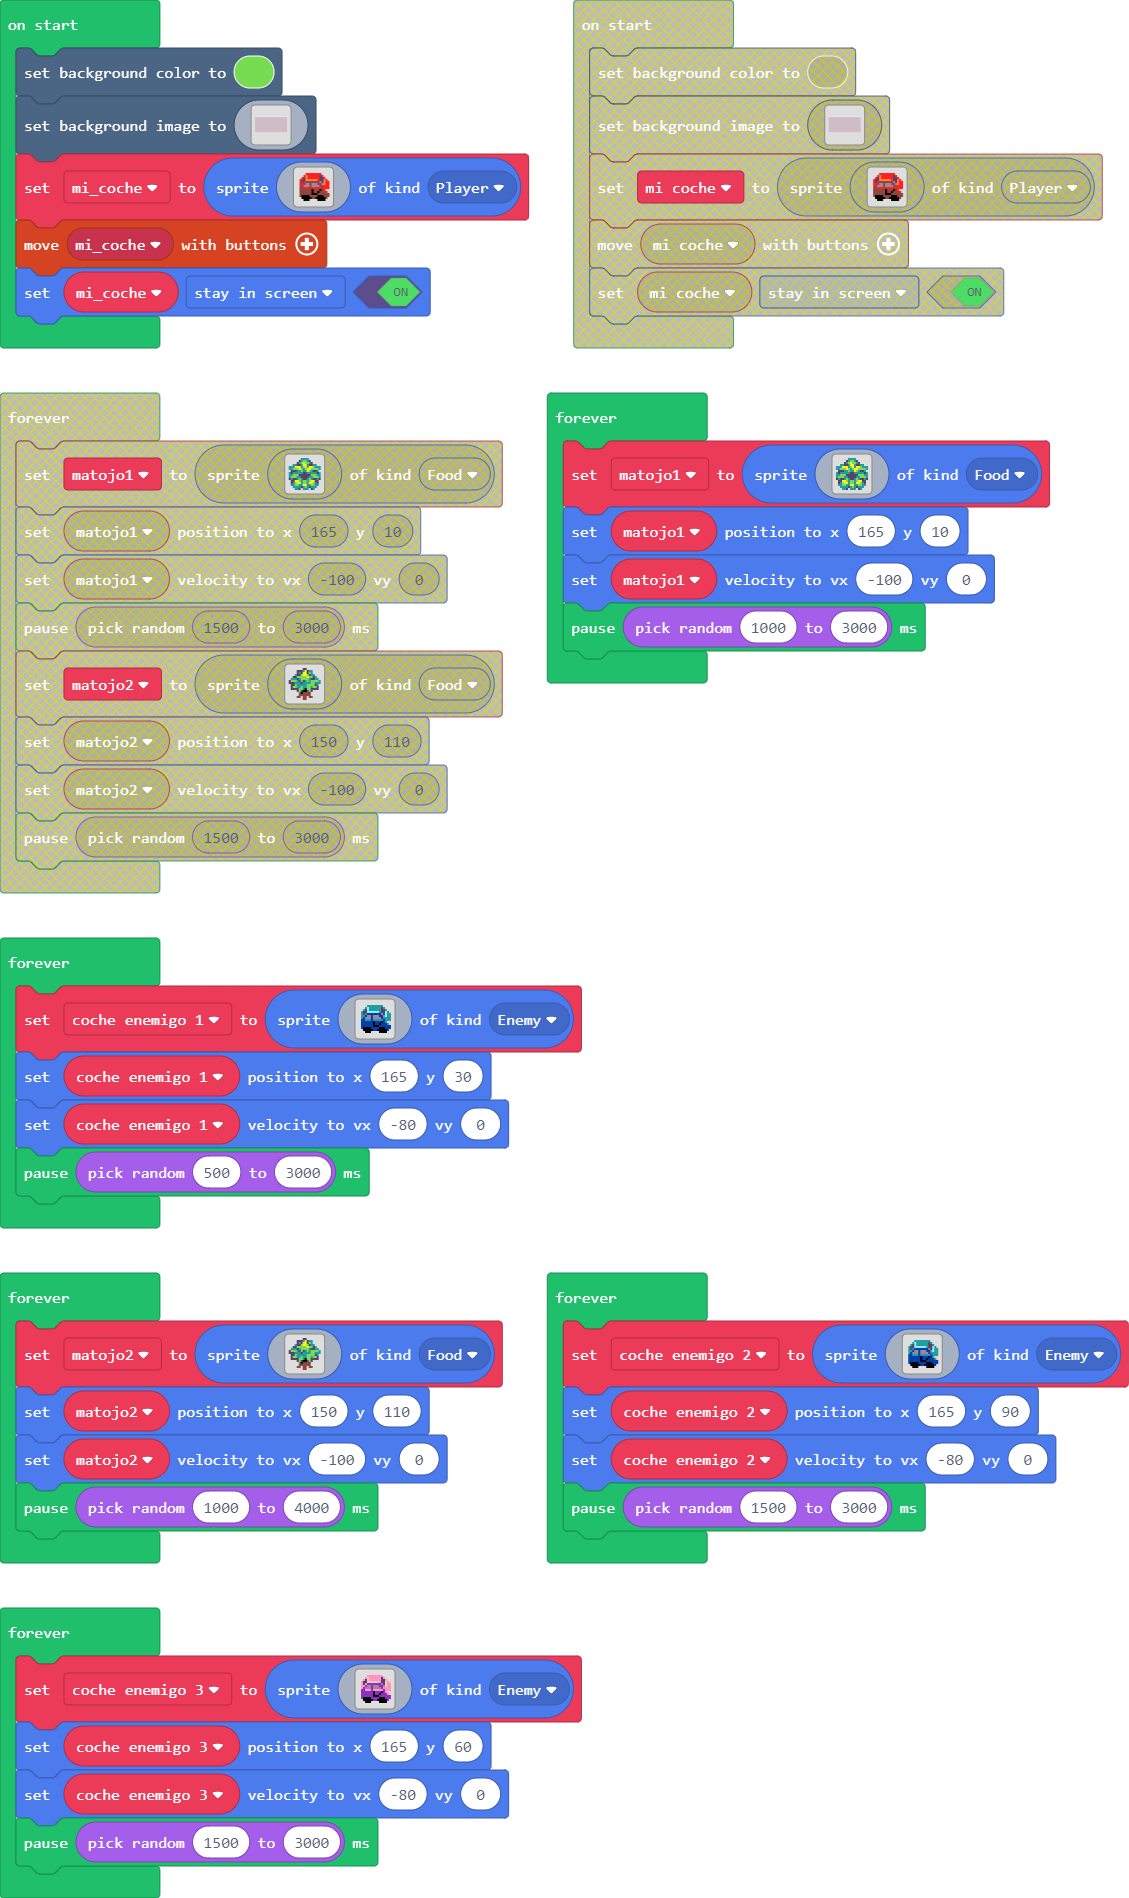
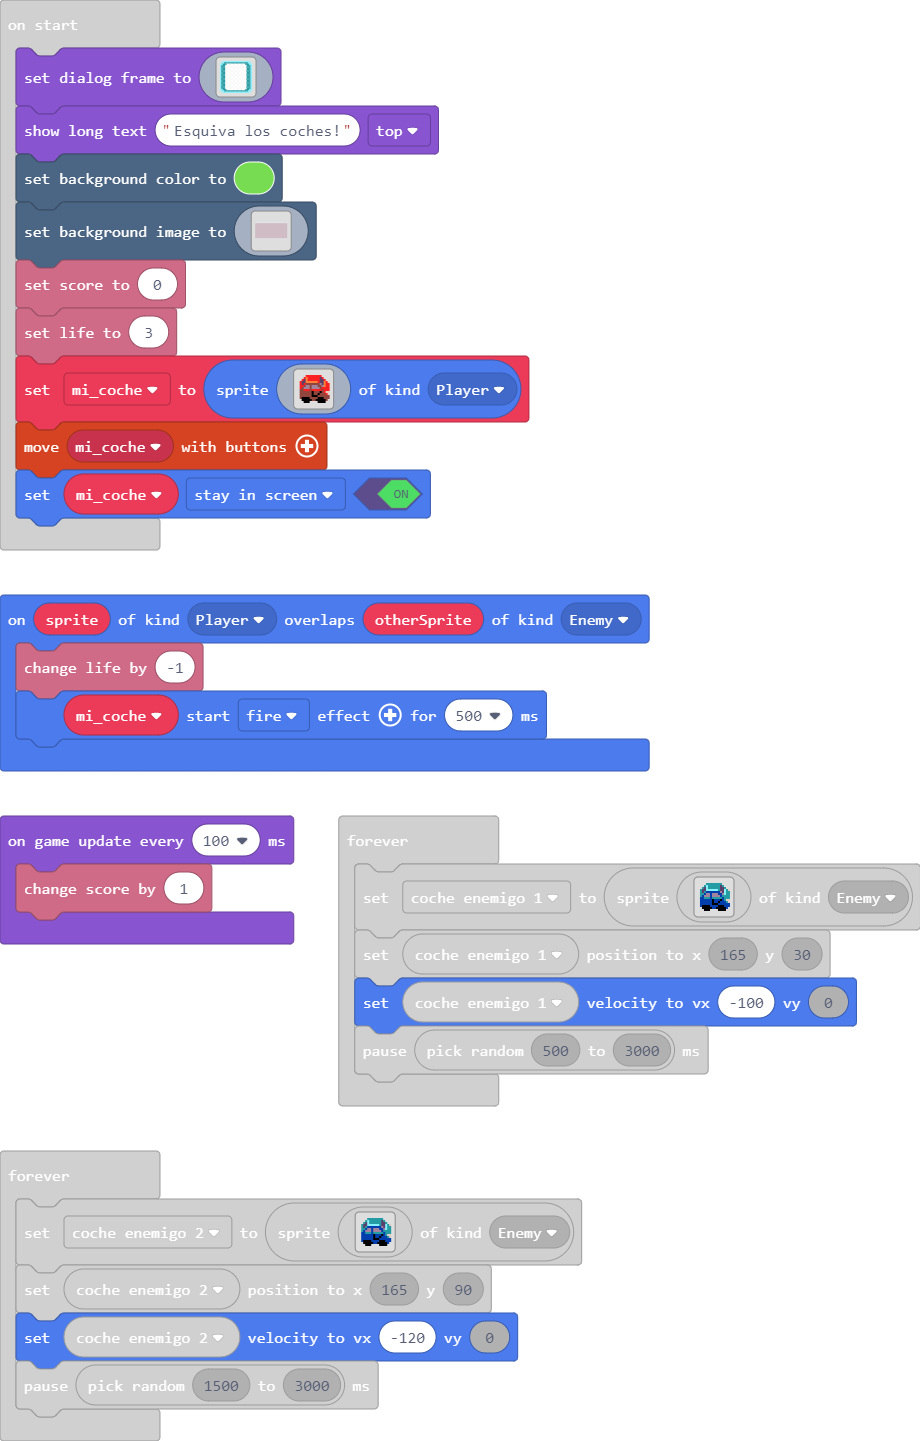
Añadido vidas, puntuación, instrucciones y distintas velocidades

diff --git a/main.ts b/main.ts
@@ -1,8 +1,40 @@
-let coche_enemigo_3: Sprite = null
+sprites.onOverlap(SpriteKind.Player, SpriteKind.Enemy, function (sprite, otherSprite) {
+    info.changeLifeBy(-1)
+    mi_coche.startEffect(effects.fire, 500)
+})
 let coche_enemigo_2: Sprite = null
-let matojo2: Sprite = null
 let coche_enemigo_1: Sprite = null
+let coche_enemigo_3: Sprite = null
+let matojo2: Sprite = null
 let matojo1: Sprite = null
+let mi_coche: Sprite = null
+game.setDialogFrame(img`
+. . 9 9 9 9 9 9 9 9 9 9 9 9 9 9 9 9 9 9 9 9 . . 
+. 9 9 6 6 6 6 6 6 6 6 6 6 6 6 6 6 6 6 6 6 9 9 . 
+9 9 6 6 6 1 1 1 1 1 1 1 1 1 1 1 1 1 1 6 6 6 9 9 
+9 6 6 6 1 1 1 1 1 1 1 1 1 1 1 1 1 1 1 1 6 6 6 9 
+9 6 6 6 1 1 1 1 1 1 1 1 1 1 1 1 1 1 1 1 6 6 6 9 
+9 6 6 6 1 1 1 1 1 1 1 1 1 1 1 1 1 1 1 1 6 6 6 9 
+9 6 6 6 1 1 1 1 1 1 1 1 1 1 1 1 1 1 1 1 6 6 6 9 
+9 6 6 6 1 1 1 1 1 1 1 1 1 1 1 1 1 1 1 1 6 6 6 9 
+9 6 6 6 1 1 1 1 1 1 1 1 1 1 1 1 1 1 1 1 6 6 6 9 
+9 6 6 6 1 1 1 1 1 1 1 1 1 1 1 1 1 1 1 1 6 6 6 9 
+9 6 6 6 1 1 1 1 1 1 1 1 1 1 1 1 1 1 1 1 6 6 6 9 
+9 6 6 6 1 1 1 1 1 1 1 1 1 1 1 1 1 1 1 1 6 6 6 9 
+9 6 6 6 1 1 1 1 1 1 1 1 1 1 1 1 1 1 1 1 6 6 6 9 
+9 6 6 6 1 1 1 1 1 1 1 1 1 1 1 1 1 1 1 1 6 6 6 9 
+9 6 6 6 1 1 1 1 1 1 1 1 1 1 1 1 1 1 1 1 6 6 6 9 
+9 6 6 6 1 1 1 1 1 1 1 1 1 1 1 1 1 1 1 1 6 6 6 9 
+9 6 6 6 1 1 1 1 1 1 1 1 1 1 1 1 1 1 1 1 6 6 6 9 
+9 6 6 6 1 1 1 1 1 1 1 1 1 1 1 1 1 1 1 1 6 6 6 9 
+9 6 6 6 1 1 1 1 1 1 1 1 1 1 1 1 1 1 1 1 6 6 6 9 
+9 6 6 6 1 1 1 1 1 1 1 1 1 1 1 1 1 1 1 1 6 6 6 9 
+9 6 6 6 1 1 1 1 1 1 1 1 1 1 1 1 1 1 1 1 6 6 6 9 
+9 9 6 6 6 1 1 1 1 1 1 1 1 1 1 1 1 1 1 6 6 6 9 9 
+. 9 9 6 6 6 6 6 6 6 6 6 6 6 6 6 6 6 6 6 6 9 9 . 
+. . 9 9 9 9 9 9 9 9 9 9 9 9 9 9 9 9 9 9 9 9 . . 
+`)
+game.showLongText("Esquiva los coches!", DialogLayout.Top)
 scene.setBackgroundColor(7)
 scene.setBackgroundImage(img`
 . . . . . . . . . . . . . . . . . . . . . . . . . . . . . . . . . . . . . . . . . . . . . . . . . . . . . . . . . . . . . . . . . . . . . . . . . . . . . . . . . . . . . . . . . . . . . . . . . . . . . . . . . . . . . . . . . . . . . . . . . . . . . . . . . . . . . . . . . . . . . . . . . . . . . . . . . . . . . . . . 
@@ -126,7 +158,9 @@ b b b b b b b b b b b b b b b b b b b b b b b b b b b b b b b b b b b b b b b b 
 . . . . . . . . . . . . . . . . . . . . . . . . . . . . . . . . . . . . . . . . . . . . . . . . . . . . . . . . . . . . . . . . . . . . . . . . . . . . . . . . . . . . . . . . . . . . . . . . . . . . . . . . . . . . . . . . . . . . . . . . . . . . . . . . . . . . . . . . . . . . . . . . . . . . . . . . . . . . . . . . 
 . . . . . . . . . . . . . . . . . . . . . . . . . . . . . . . . . . . . . . . . . . . . . . . . . . . . . . . . . . . . . . . . . . . . . . . . . . . . . . . . . . . . . . . . . . . . . . . . . . . . . . . . . . . . . . . . . . . . . . . . . . . . . . . . . . . . . . . . . . . . . . . . . . . . . . . . . . . . . . . . 
 `)
-let mi_coche = sprites.create(img`
+info.setScore(0)
+info.setLife(3)
+mi_coche = sprites.create(img`
 . . . . . . . . . . . . . . . . 
 . . . . 2 2 2 2 2 2 2 2 . . . . 
 . . . 2 4 2 2 2 2 2 2 c 2 . . . 
@@ -146,6 +180,9 @@ let mi_coche = sprites.create(img`
 `, SpriteKind.Player)
 controller.moveSprite(mi_coche)
 mi_coche.setFlag(SpriteFlag.StayInScreen, true)
+game.onUpdateInterval(100, function () {
+    info.changeScoreBy(1)
+})
 forever(function () {
     matojo1 = sprites.create(img`
 . . . . . . 6 6 6 6 . . . . . . 
@@ -168,29 +205,6 @@ c 6 c c 6 7 6 c c 6 7 6 c c 6 c
     matojo1.setPosition(165, 10)
     matojo1.setVelocity(-100, 0)
     pause(Math.randomRange(1000, 3000))
-})
-forever(function () {
-    coche_enemigo_1 = sprites.create(img`
-. . . . . . . . . . . . . . . . 
-. . . . 6 6 6 6 6 6 6 6 . . . . 
-. . . 6 9 6 6 6 6 6 6 c 6 . . . 
-. . 6 c 9 6 6 6 6 6 6 c c 6 . . 
-. 6 c c 9 9 9 9 9 9 6 c c 9 6 d 
-. 6 c 6 8 8 8 8 8 8 8 b c 9 6 6 
-. 6 6 8 b b 8 b b b 8 8 b 9 6 6 
-. 6 8 b b b 8 b b b b 8 6 6 6 6 
-. 8 8 6 6 6 8 6 6 6 6 6 8 6 6 6 
-. 8 8 8 8 8 8 f 8 8 8 f 8 6 d d 
-. 8 8 8 8 8 8 f 8 8 f 8 8 8 6 d 
-. 8 8 8 8 8 8 f f f 8 8 8 8 8 8 
-. 8 f f f f 8 8 8 8 f f f 8 8 8 
-. . f f f f f 8 8 f f f f f 8 . 
-. . . f f f . . . . f f f f . . 
-. . . . . . . . . . . . . . . . 
-`, SpriteKind.Enemy)
-    coche_enemigo_1.setPosition(165, 30)
-    coche_enemigo_1.setVelocity(-80, 0)
-    pause(Math.randomRange(500, 3000))
 })
 forever(function () {
     matojo2 = sprites.create(img`
@@ -216,29 +230,6 @@ c c c 6 6 6 c 6 6 6 6 7 7 6 6 6
     pause(Math.randomRange(1000, 4000))
 })
 forever(function () {
-    coche_enemigo_2 = sprites.create(img`
-. . . . . . . . . . . . . . . . 
-. . . . 6 6 6 6 6 6 6 6 . . . . 
-. . . 6 9 6 6 6 6 6 6 c 6 . . . 
-. . 6 c 9 6 6 6 6 6 6 c c 6 . . 
-. 6 c c 9 9 9 9 9 9 6 c c 9 6 d 
-. 6 c 6 8 8 8 8 8 8 8 b c 9 6 6 
-. 6 6 8 b b 8 b b b 8 8 b 9 6 6 
-. 6 8 b b b 8 b b b b 8 6 6 6 6 
-. 8 8 6 6 6 8 6 6 6 6 6 8 6 6 6 
-. 8 8 8 8 8 8 f 8 8 8 f 8 6 d d 
-. 8 8 8 8 8 8 f 8 8 f 8 8 8 6 d 
-. 8 8 8 8 8 8 f f f 8 8 8 8 8 8 
-. 8 f f f f 8 8 8 8 f f f 8 8 8 
-. . f f f f f 8 8 f f f f f 8 . 
-. . . f f f . . . . f f f f . . 
-. . . . . . . . . . . . . . . . 
-`, SpriteKind.Enemy)
-    coche_enemigo_2.setPosition(165, 90)
-    coche_enemigo_2.setVelocity(-80, 0)
-    pause(Math.randomRange(1500, 3000))
-})
-forever(function () {
     coche_enemigo_3 = sprites.create(img`
 . . . . . . . . . . . . . . . . 
 . . . . 3 3 3 3 3 3 3 3 . . . . 
@@ -259,5 +250,51 @@ forever(function () {
 `, SpriteKind.Enemy)
     coche_enemigo_3.setPosition(165, 60)
     coche_enemigo_3.setVelocity(-80, 0)
+    pause(Math.randomRange(1500, 3000))
+})
+forever(function () {
+    coche_enemigo_1 = sprites.create(img`
+. . . . . . . . . . . . . . . . 
+. . . . 6 6 6 6 6 6 6 6 . . . . 
+. . . 6 9 6 6 6 6 6 6 c 6 . . . 
+. . 6 c 9 6 6 6 6 6 6 c c 6 . . 
+. 6 c c 9 9 9 9 9 9 6 c c 9 6 d 
+. 6 c 6 8 8 8 8 8 8 8 b c 9 6 6 
+. 6 6 8 b b 8 b b b 8 8 b 9 6 6 
+. 6 8 b b b 8 b b b b 8 6 6 6 6 
+. 8 8 6 6 6 8 6 6 6 6 6 8 6 6 6 
+. 8 8 8 8 8 8 f 8 8 8 f 8 6 d d 
+. 8 8 8 8 8 8 f 8 8 f 8 8 8 6 d 
+. 8 8 8 8 8 8 f f f 8 8 8 8 8 8 
+. 8 f f f f 8 8 8 8 f f f 8 8 8 
+. . f f f f f 8 8 f f f f f 8 . 
+. . . f f f . . . . f f f f . . 
+. . . . . . . . . . . . . . . . 
+`, SpriteKind.Enemy)
+    coche_enemigo_1.setPosition(165, 30)
+    coche_enemigo_1.setVelocity(-100, 0)
+    pause(Math.randomRange(500, 3000))
+})
+forever(function () {
+    coche_enemigo_2 = sprites.create(img`
+. . . . . . . . . . . . . . . . 
+. . . . 6 6 6 6 6 6 6 6 . . . . 
+. . . 6 9 6 6 6 6 6 6 c 6 . . . 
+. . 6 c 9 6 6 6 6 6 6 c c 6 . . 
+. 6 c c 9 9 9 9 9 9 6 c c 9 6 d 
+. 6 c 6 8 8 8 8 8 8 8 b c 9 6 6 
+. 6 6 8 b b 8 b b b 8 8 b 9 6 6 
+. 6 8 b b b 8 b b b b 8 6 6 6 6 
+. 8 8 6 6 6 8 6 6 6 6 6 8 6 6 6 
+. 8 8 8 8 8 8 f 8 8 8 f 8 6 d d 
+. 8 8 8 8 8 8 f 8 8 f 8 8 8 6 d 
+. 8 8 8 8 8 8 f f f 8 8 8 8 8 8 
+. 8 f f f f 8 8 8 8 f f f 8 8 8 
+. . f f f f f 8 8 f f f f f 8 . 
+. . . f f f . . . . f f f f . . 
+. . . . . . . . . . . . . . . . 
+`, SpriteKind.Enemy)
+    coche_enemigo_2.setPosition(165, 90)
+    coche_enemigo_2.setVelocity(-120, 0)
     pause(Math.randomRange(1500, 3000))
 })
